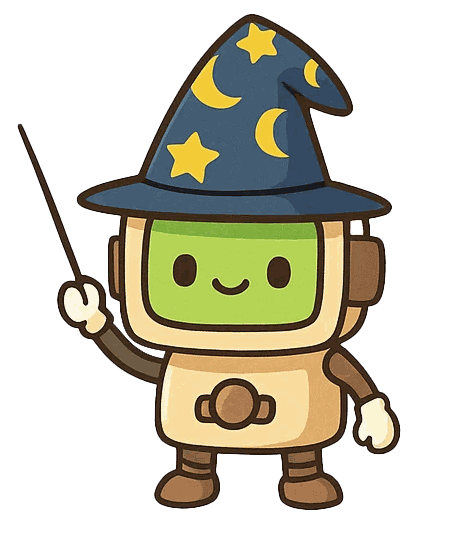
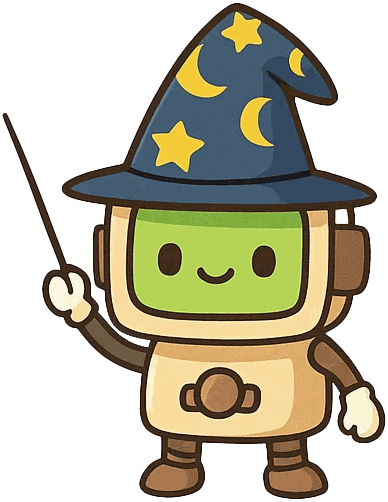
Enlarge the Build fei artwork to fill the page under the heading
Autonomy-Task: https://studio.autonomyai.io/projects/bcbdf29f-e521-4380-8370-6019b1427500/tasks/1da2497d-d797-4f66-af59-c271a1cd41e6

diff --git a/src/app/ui/build-fei/build-fei.view.tsx b/src/app/ui/build-fei/build-fei.view.tsx
@@ -1,15 +1,15 @@
 export const BuildFeiView = () => {
   return (
-    <div className="relative h-full overflow-hidden">
+    <div className="relative flex h-full flex-col overflow-hidden pb-4">
+      <h1 className="relative z-10 mt-[3vh] text-center font-primary-black text-5xl text-font">
+        Build fei
+      </h1>
       <img
         src="/images/build-fei-mascot.png"
         alt=""
         aria-hidden="true"
-        className="pointer-events-none absolute inset-x-0 bottom-4 h-[76vh] w-full select-none object-contain object-bottom"
+        className="pointer-events-none mt-3 min-h-0 w-full flex-1 select-none object-contain object-bottom"
       />
-      <h1 className="relative z-10 mt-[8vh] text-center font-primary-black text-5xl text-font">
-        Build fei
-      </h1>
     </div>
   );
 };
